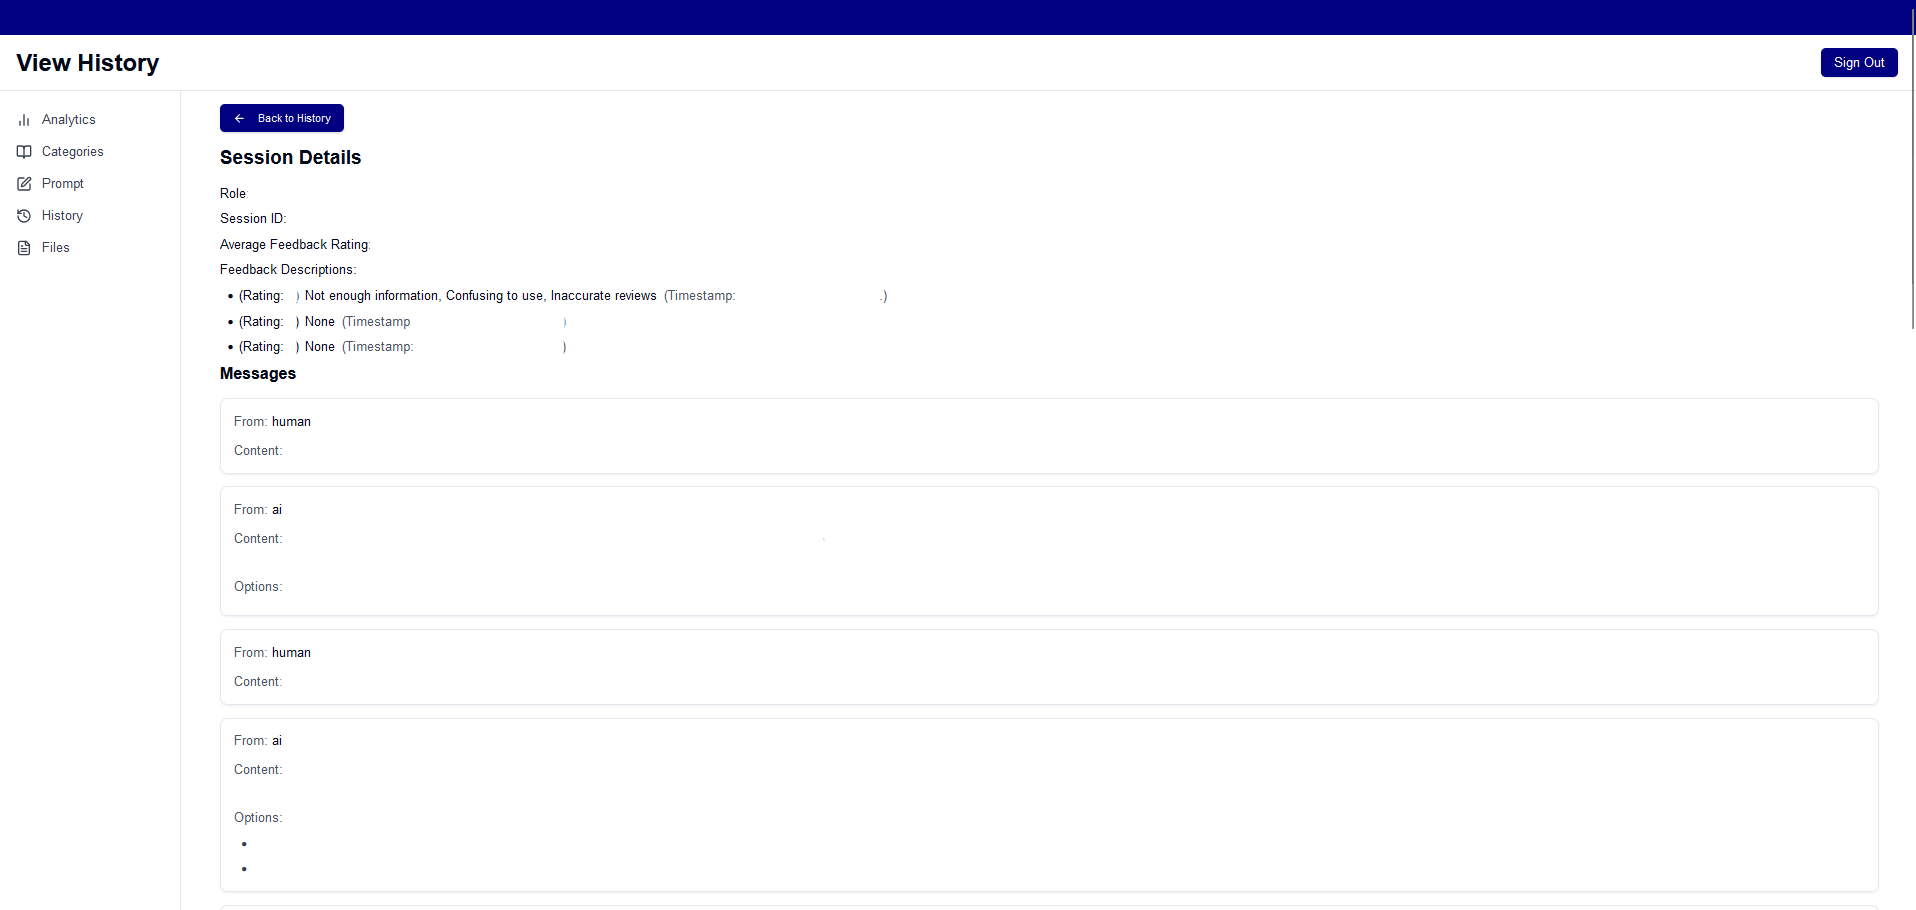
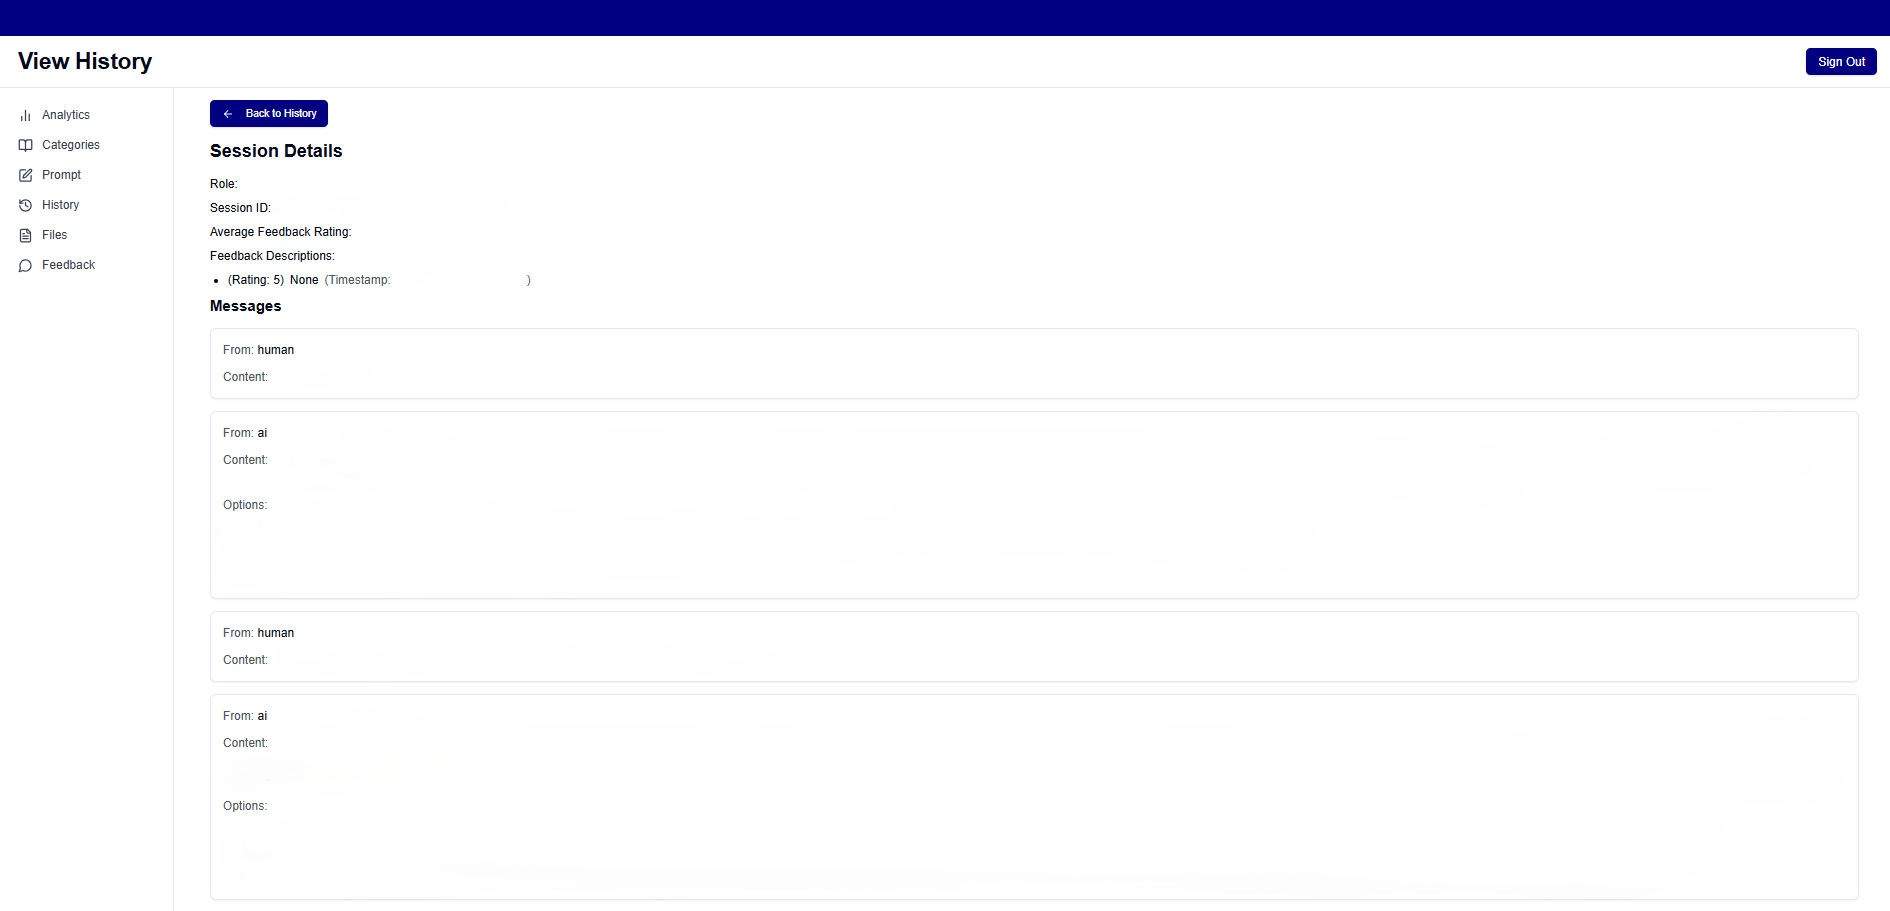
fix: edited user guide with new images

diff --git a/docs/userGuide.md b/docs/userGuide.md
@@ -51,6 +51,9 @@ Clicking on a session from the history page will open the conversation history f
 Clicking the "Files" button on the sidebar will allow the administrator to view all the files in every category as well as their descriptions. These are the files that the assistant will use to retrieve information. The files can be downloaded by pressing the download icon in each file.
 ![image](./images/files.png)
 
+Clicking the "Feedback" button on the sidebar will allow the administrator to view all the feedbacks in every user role as well as their descriptions.
+![image](./images/feedback_admin.png)
+
 
 ## Public View
 Upon opening the public view of the app, users are greeted with a home page. Clicking on "About" or "T&C" will open a modal which either describes the DLS assistant or shows the terms and conditions of using the assistant.
